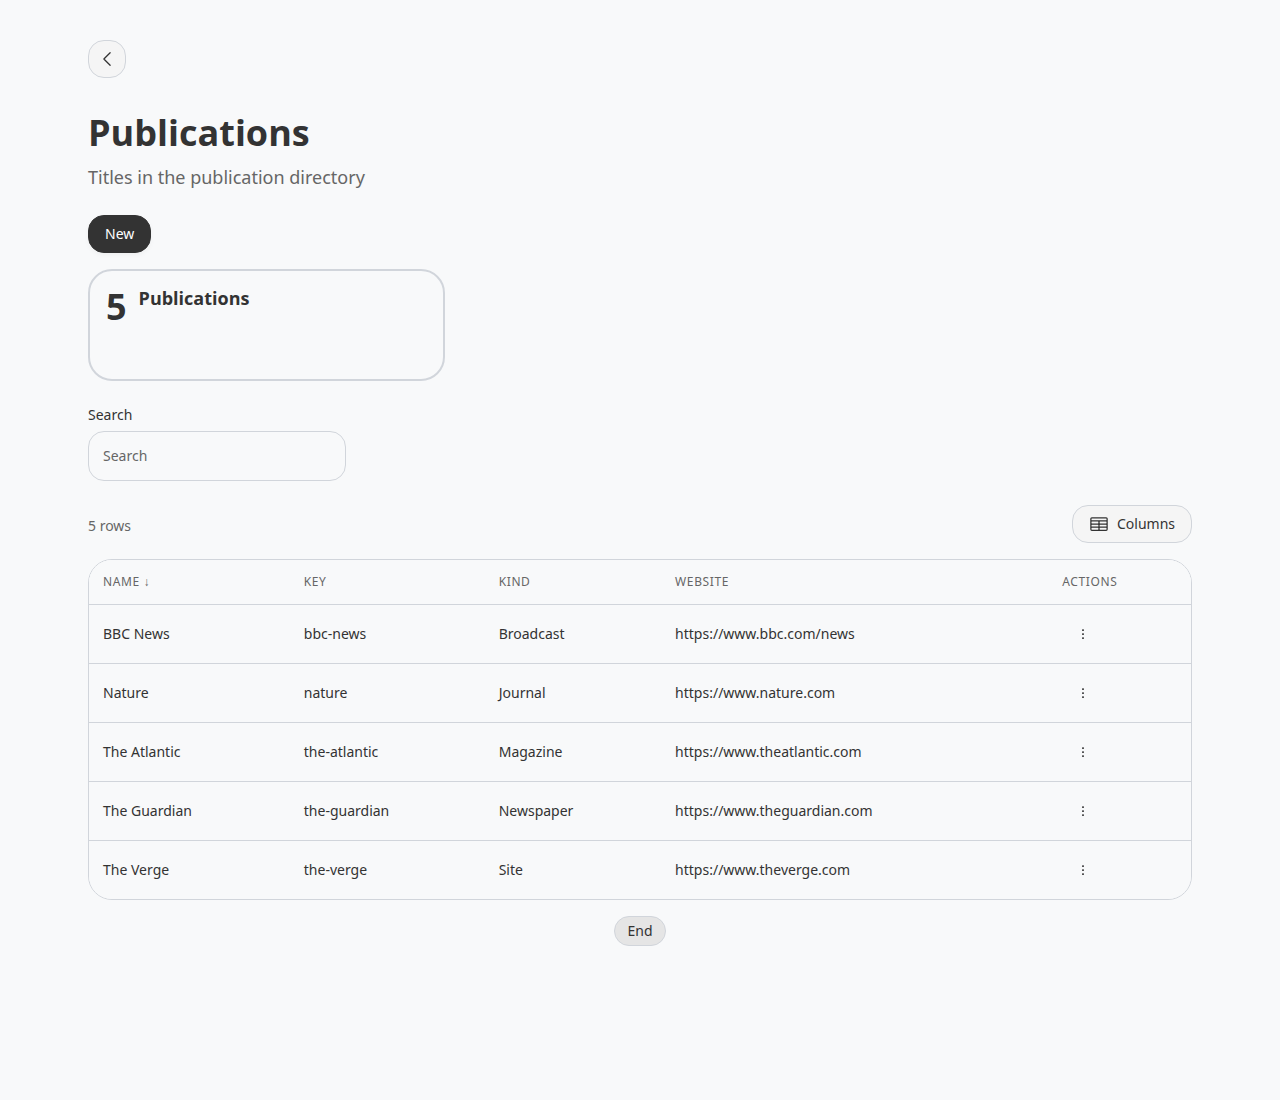
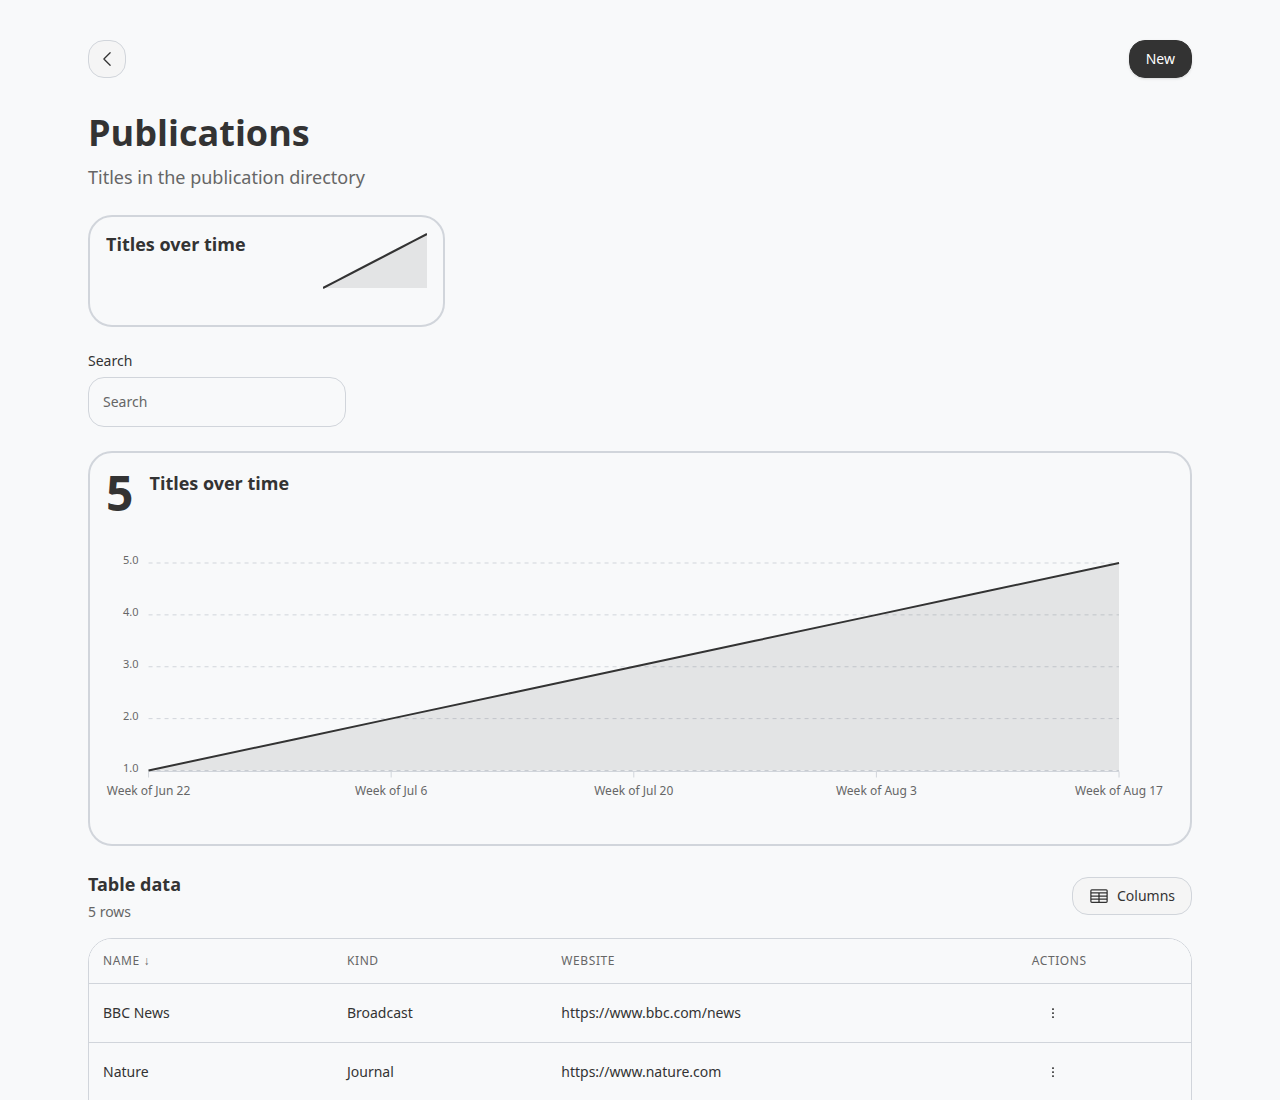
Recapture inventory and stagger seed created_at
Stamp seeded titles with weekly created_at via update_all so the
titles-over-time chart is not a single spike. Overwrite the viewport
inventory PNG.

diff --git a/test/dummy/db/seeds.rb b/test/dummy/db/seeds.rb
@@ -26,9 +26,9 @@ bootstrap_owner_access = lambda do |actor, recording|
 end
 
 seed_publication = lambda do |name:, key:, kind:, website:, actor:, created_at:|
-  existing = RecordingStudioPublications.publications.find_by(key: key)
+  existing = RecordingStudioPublications::Publication.find_by(key: key)
   if existing
-    existing.update_column(:created_at, created_at)
+    RecordingStudioPublications::Publication.where(id: existing.id).update_all(created_at: created_at)
     return existing
   end
 
@@ -36,7 +36,8 @@ seed_publication = lambda do |name:, key:, kind:, website:, actor:, created_at:|
     { name: name, key: key, kind: kind, website: website },
     actor: actor
   )
-  recording.recordable.update_column(:created_at, created_at)
+  publication = recording.recordable
+  RecordingStudioPublications::Publication.where(id: publication.id).update_all(created_at: created_at)
   recording.import_attachment(
     io: StringIO.new(ONE_PIXEL_PNG),
     filename: "#{key}.png",
@@ -44,7 +45,7 @@ seed_publication = lambda do |name:, key:, kind:, website:, actor:, created_at:|
     name: "Logo",
     actor: actor
   )
-  recording.recordable
+  publication
 end
 
 # Create the admin user

diff --git a/test/dummy/test/integration/recording_studio_template_test.rb b/test/dummy/test/integration/recording_studio_template_test.rb
@@ -54,6 +54,11 @@ class RecordingStudioTemplateTest < ActiveSupport::TestCase
     assert_equal 3, Workspace.count
     assert AdminRoot.find_by(name: "Admin")
     assert_operator RecordingStudioPublications.publications.count, :>=, 5
+    created_ats = RecordingStudioPublications.publications.where(
+      key: %w[the-atlantic the-guardian nature bbc-news the-verge]
+    ).pluck(:created_at)
+    assert_operator created_ats.map { |time| time.to_date }.uniq.size, :>=, 4,
+                    "seeded titles should stagger created_at so the inventory chart is not a single spike"
 
     assert_no_difference -> { User.count } do
       assert_no_difference -> { RecordingStudio::Recording.count } do
